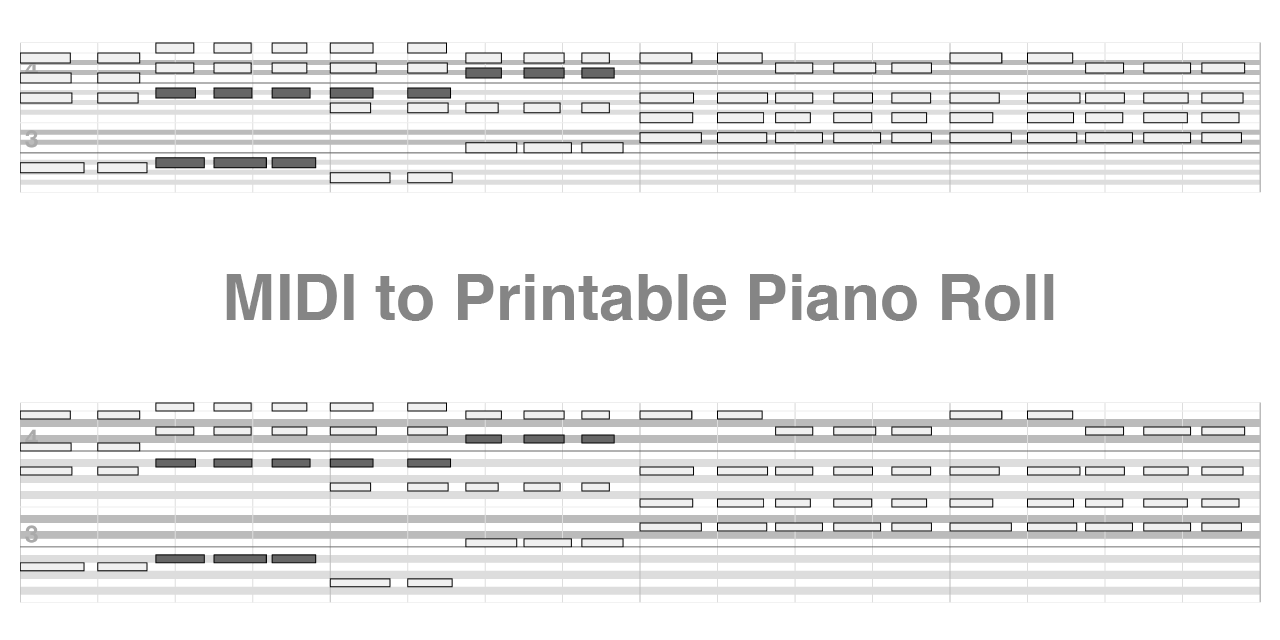
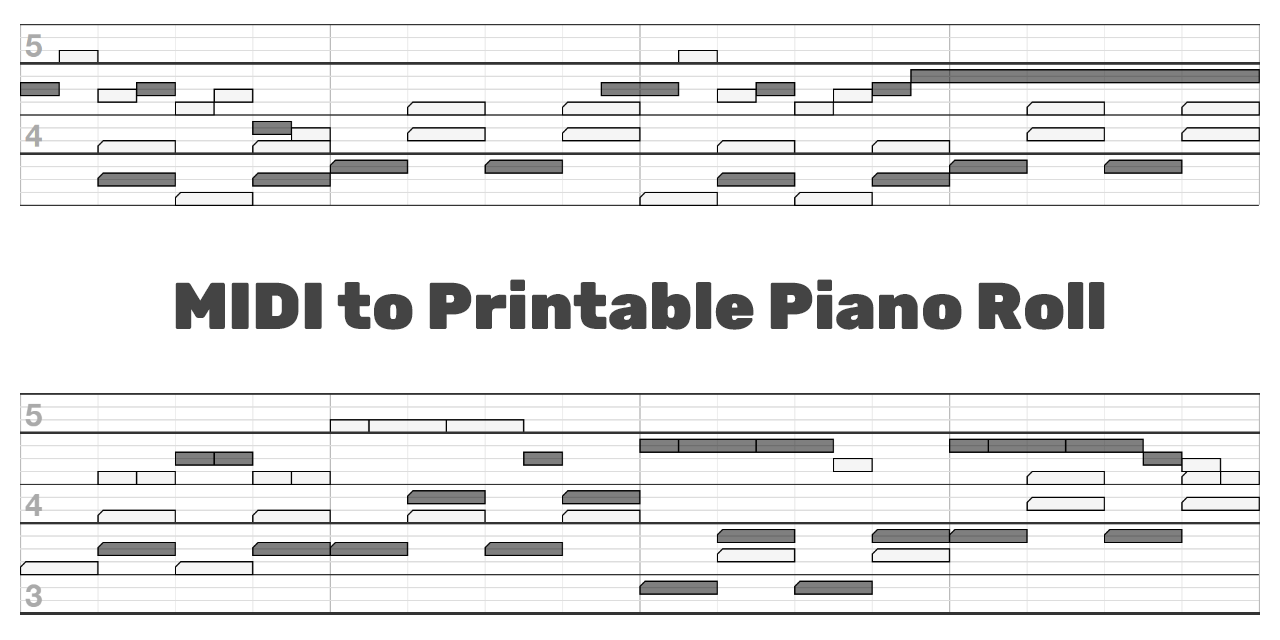
Make DAW grid more readable, update previews and OG image

diff --git a/PianoRollSvg.js b/PianoRollSvg.js
@@ -14,7 +14,6 @@
 			.note_staggered { fill-opacity: 0.6; }
 			.note_black_staggered { fill: #000; fill-opacity: 0.5; }
 			.blackRow { fill: #ddd; }
-			.blackRow_lower { fill: #bbb; }
 			.octaveText { font-weight: bold; font-size: 24px; font-family: 'Helvetica Neue', Helvetica, sans-serif; fill: #aaa; }
 		</style>\n`
 
